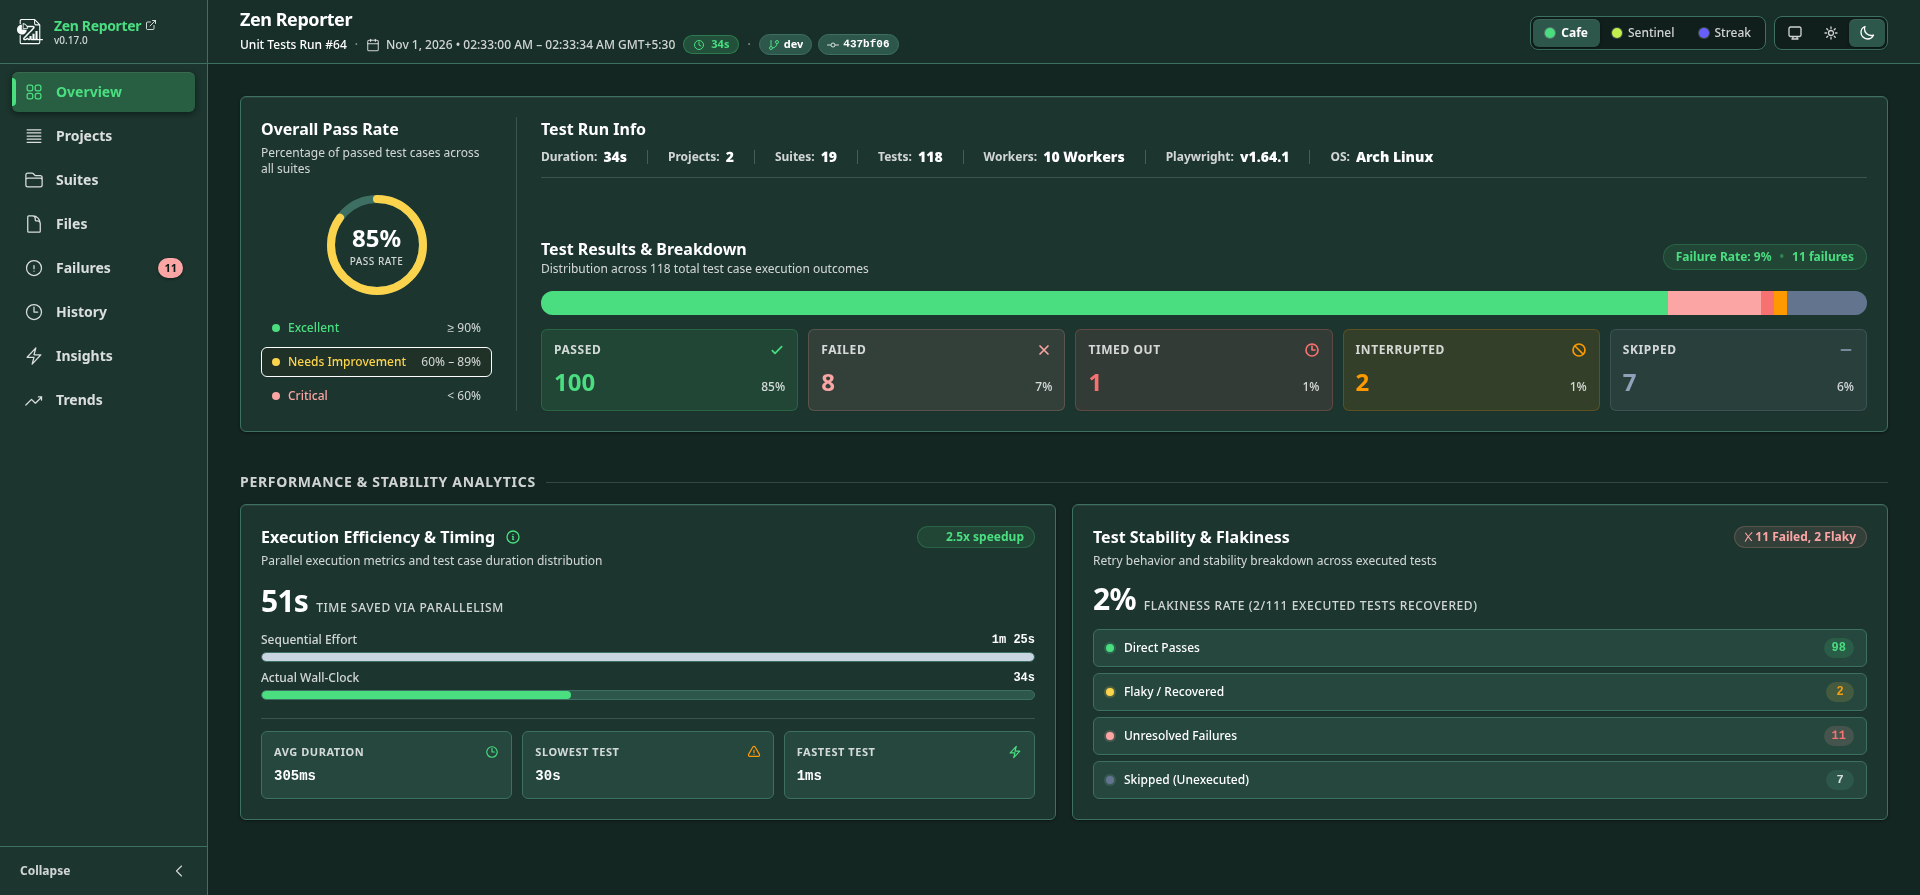
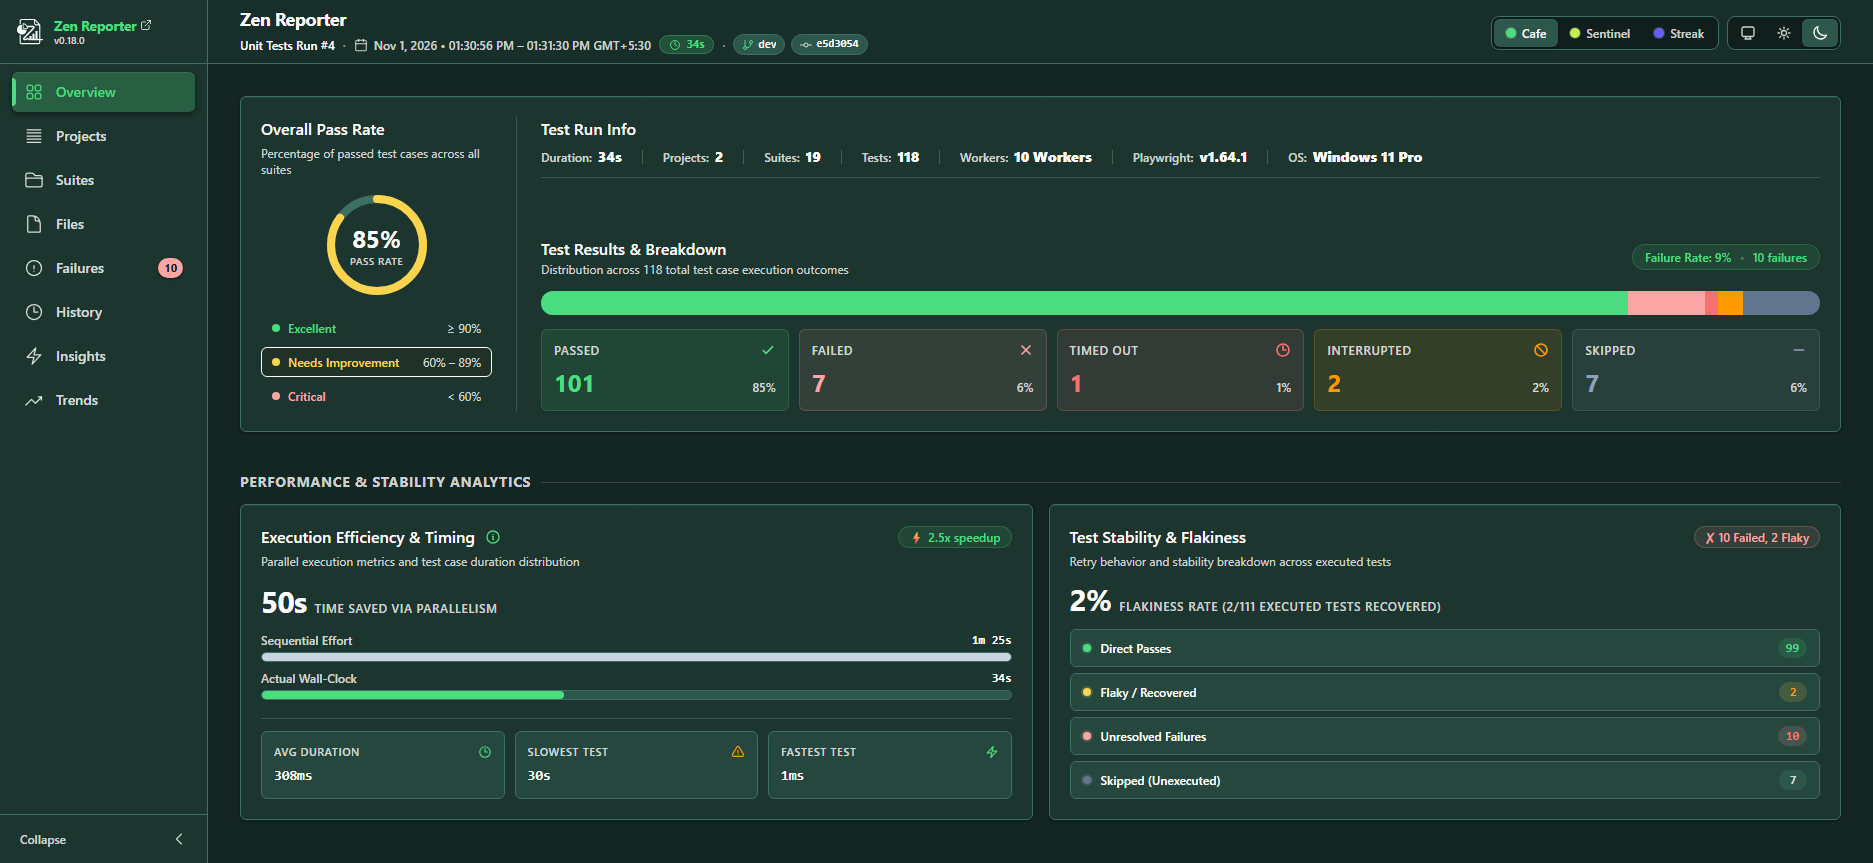
feat: refactor OS name retrieval and improve code formatting

diff --git a/src/lib/reporter.ts b/src/lib/reporter.ts
@@ -9,7 +9,7 @@ import type {
 import { execFileSync, spawn } from 'child_process';
 import * as fs from 'fs';
 import { createRequire } from 'module';
-import { platform, type as osType } from 'os';
+import os, { platform, type as osType } from 'os';
 import * as path from 'path';
 import { fileURLToPath } from 'url';
 import { convertPlaywrightSteps, sanitizeAnsi, setFsModule } from './codeHighlighting';
@@ -422,8 +422,8 @@ class ZenReporter implements Reporter {
   private getOsName(): string {
     const p = platform();
 
-    if (p === 'darwin') return 'macOS';
-    if (p === 'win32') return 'Windows';
+    if (p === 'darwin') return `macOS ${os.release()}`;
+    if (p === 'win32') return `${os.version()}`;
     if (p === 'linux') {
       try {
         if (fs.existsSync('/etc/os-release')) {

diff --git a/bin/commands/common.js b/bin/commands/common.js
@@ -1,6 +1,6 @@
 import { existsSync, readFileSync, readdirSync } from 'fs';
 import { createRequire } from 'module';
-import { platform, type } from 'os';
+import os, { platform, type } from 'os';
 import { resolve } from 'path';
 
 /**
@@ -345,8 +345,8 @@ export function printTable(
 export function getOsName() {
   const p = platform();
 
-  if (p === 'darwin') return 'macOS';
-  if (p === 'win32') return 'Windows';
+  if (p === 'darwin') return `macOS ${os.release()}`;
+  if (p === 'win32') return `${os.version()}`;
   if (p === 'linux') {
     try {
       if (existsSync('/etc/os-release')) {
